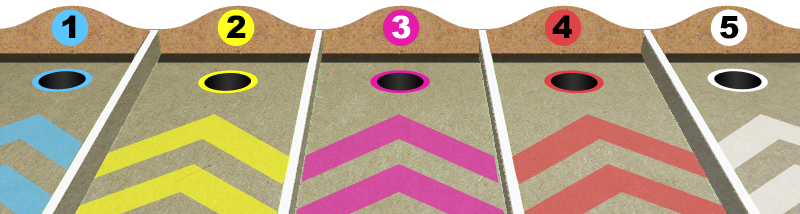
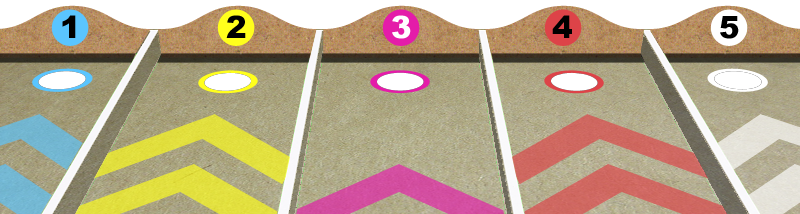
Pit changes

diff --git a/js/game/Pit.js b/js/game/Pit.js
@@ -3,39 +3,73 @@
     var namespace = GAMEMAIN.namespace('GAMEMAIN.game');
 
     var stage;
-
+    var horsesManager;
 
 
     if (namespace.Pit === undefined) 
 	{
-        namespace.Pit = function(aStage)
+        namespace.Pit = function(aStage, aHorsesManager)
  		{	
 			stage = aStage;
+			horsesManager = aHorsesManager;
         }
 
         var p = namespace.Pit.prototype;
 		
 		
-		p.init = function(horse)
+		p.init = function(id, holeMaskPos, ballXPos, doorProps, lanes)
 		{
-			this.horse = horse;
+			this.id = id;
+			this.horse = horsesManager['horse'+id];
+			this.holeMaskPos = holeMaskPos;
+			this.ballX = ballXPos;
+			this.doorProps = doorProps;
+			this.lanes = lanes;
 
-			this.ballMask = new createjs.Bitmap('img/pit3mask.png');
-			this.ballMask.x = 377;
-			this.ballMask.y = 346;
-			stage.addChild(this.ballMask);
+			this.createMasks();
+			this.createDoors();
+			this.createBall();
+		}
 
+		p.createBall = function()
+		{
 			this.ball = new createjs.Bitmap('img/ball.png');
 			this.ball.regX = 22;
 			this.ball.regY = 37;
-			this.ball.x = 400;
-			this.ball.y = 200;
+			this.ball.x = -1000;
+			this.ball.y = -1000;
 			stage.addChild(this.ball);
+		}
+
+		p.createMasks = function()
+		{
+			this.holeMask = new createjs.Bitmap('img/pit' + this.id + 'mask.png');
+			this.holeMask.x = this.holeMaskPos.x;
+			this.holeMask.y = this.holeMaskPos.y;
+			stage.addChild(this.holeMask);
+		}
+
+		p.createDoors = function()
+		{
+			this.leftDoor = new createjs.Bitmap('img/pitdoor.png');
+			this.leftDoor.skewX = this.doorProps.skew;
+			this.leftDoor.x = this.doorProps.x - this.leftDoor.image.width;
+			this.leftDoor.y = 347 - this.leftDoor.image.height/2;
+			stage.addChildAt(this.leftDoor, stage.getChildIndex(this.lanes));
+
+			this.rightDoor = this.leftDoor.clone();
+			this.rightDoor.skewX = this.doorProps.skew;
+			this.rightDoor.x = this.doorProps.x;
+			this.rightDoor.y = 347 - this.rightDoor.image.height/2;
+			stage.addChildAt(this.rightDoor, stage.getChildIndex(this.lanes));
+
+			this.doorsOpen = false;
 		}
 
 		p.startBall = function()
 		{
 			stage.addChild(this.ball);
+			this.ball.x = this.ballX.startX;
 			this.ball.y = 550;
 			this.ball.scaleX = this.ball.scaleY = 1.3;
 			TweenLite.to(this.ball, .4, {delay:1, y:472, scaleX:1, scaleY:1, ease:Quad.easeOut, onComplete:this.addPressListenerToBall.bind(this)});
@@ -49,14 +83,38 @@
 		p.onPressBall = function(evt)
 		{
 			evt.target.onPress = null;
-			TweenLite.to(evt.target, .45, {y:355, scaleX:.75, scaleY:.75, ease:Sine.easeIn, onComplete:this.potBall.bind(this)});
+			this.ballTween = TweenLite.to(evt.target, .45, {x:this.ballX.endX, y:328, scaleX:.75, scaleY:.75, ease:Sine.easeIn, 
+				onUpdate:this.onBallUpdate.bind(this), onComplete:this.potBall.bind(this)});
+		}
+
+		p.onBallUpdate = function()
+		{
+			if (this.ball.y <= 355 && this.doorsOpen) 
+			{
+				this.ballTween.kill();
+				this.potBall();
+			}
 		}
 
 		p.potBall = function()
 		{
-			stage.setChildIndex(this.ballMask, stage.getChildIndex(this.ball));			
+			stage.setChildIndex(this.holeMask, stage.getChildIndex(this.ball));			
 			TweenLite.to(this.ball, .3, {y:400, onComplete:this.startBall.bind(this)});
-			this.horse.moveForward();
+			if (this.doorsOpen) this.horse.moveForward();
+		}
+
+		p.openDoors = function()
+		{
+			this.doorsOpen = true;
+			TweenLite.to(this.leftDoor, .5, {x:this.doorProps.x - this.leftDoor.image.width*2, ease:Bounce.easeOut});
+			TweenLite.to(this.rightDoor, .5, {x:this.doorProps.x + this.rightDoor.image.width, ease:Bounce.easeOut});
+		}
+
+		p.closeDoors = function()
+		{
+			this.doorsOpen = false;
+			TweenLite.to(this.leftDoor, .5, {x:this.doorProps.x - this.leftDoor.image.width, ease:Bounce.easeOut});
+			TweenLite.to(this.rightDoor, .5, {x:this.doorProps.x, ease:Bounce.easeOut});
 		}
 	}
 

diff --git a/js/game/PitsManager.js b/js/game/PitsManager.js
@@ -4,6 +4,7 @@
 
     var stage;
     var horsesManager;
+    var difficulty;
 
 
 
@@ -13,6 +14,7 @@
  		{	
 			stage = aStage;
 			horsesManager = aHorsesManager;
+			difficulty = 'hard';
         }
 
         var p = namespace.PitsManager.prototype;
@@ -23,10 +25,54 @@
 			var lanes = new createjs.Bitmap('img/lanes.png');
 			lanes.y = 265;
 			stage.addChild(lanes);
+			
+			this.pits = [];
 
-			this.pit3 = new namespace.Pit(gameStage);
-			this.pit3.init(horsesManager.horse3);
-			this.pit3.startBall();
+			var pit3 = new namespace.Pit(gameStage, horsesManager);
+			pit3.init(3, {x:377, y:346}, {startX:400, endX:400}, {x:400, skew:0}, lanes);
+			this.pits.push(pit3);
+
+			pit3.startBall();
+			this.startDoorsSequence();
+		}
+
+		p.startDoorsSequence = function()
+		{
+			this.doorsSequence = [1, 2, 1, .5, 2, 1];
+			this.doorsPointer = -1;
+			this.doNextStep();
+		}
+
+		p.doNextStep = function()
+		{
+			if (++this.doorsPointer >= this.doorsSequence.length) this.doorsPointer = 0;
+
+			for (var i=0; i<this.pits.length; ++i) 
+			{
+				this.pits[i].doorsOpen ? this.pits[i].closeDoors() : this.pits[i].openDoors();
+			}
+
+			var delayMultiplier; 
+
+			switch (difficulty) 
+			{
+				case 'easy':
+					delayMultiplier = 3;
+					break;
+
+				case 'medium':
+					delayMultiplier = 2;
+					break;
+
+				case 'hard':
+					delayMultiplier = 1;
+					break;
+			}
+
+			var delay = this.doorsSequence[this.doorsPointer] * delayMultiplier;
+			TweenLite.delayedCall(delay, this.doNextStep.bind(this));
+
+			console.log('doors step: ' + this.doorsPointer + ', delay: ' + delay + ' secs');
 		}
 }
 
